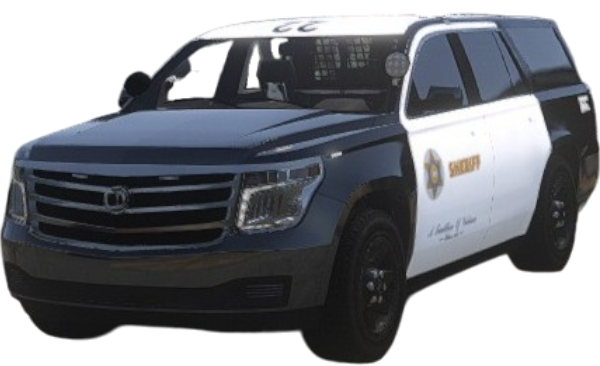
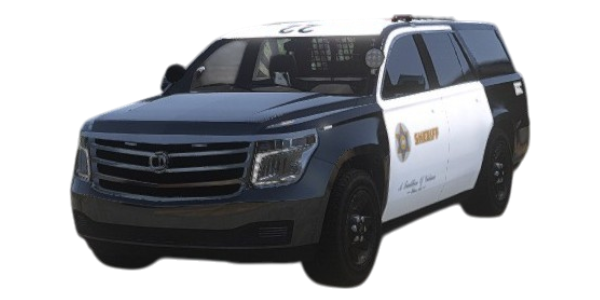
update scrollreveal + sheriff

diff --git a/index.html b/index.html
@@ -1509,7 +1509,7 @@
             </div>
           </div>
           <div class="deals__card">
-            <img src="assets/sheriffdet2.png" alt="deals" />
+            <img src="assets/sheriffdet.png" alt="deals" />
             <div class="deals__rating">
               <span><i class="ri-star-fill"></i></span>
               <span><i class="ri-star-fill"></i></span>
@@ -4865,7 +4865,7 @@
       </div>
     </footer>
 
-    <script src="https://unpkg.com/scrollreveal"></script>
+    <script src="https://cdn.jsdelivr.net/npm/scrollreveal@4.0.9/dist/scrollreveal.min.js"></script>
     <script src="https://cdn.jsdelivr.net/npm/swiper@11/swiper-bundle.min.js"></script>
     <script src="main.js"></script>
   </body>
